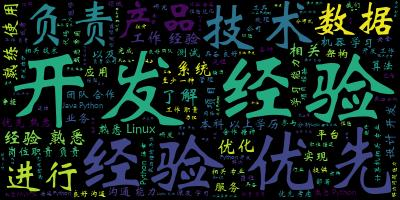
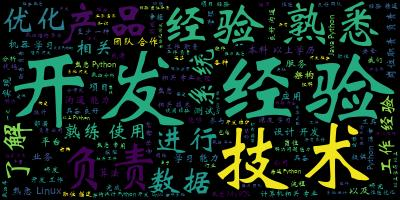
update

diff --git a/Scrapy/lagou/lagou/analysis/analysis.py b/Scrapy/lagou/lagou/analysis/analysis.py
@@ -120,7 +120,7 @@ class Analysis(object):
         describe_string_list = jieba.cut(describe_string)
         new_string = ' '.join(describe_string_list)
 
-        stop_list = ['任职', '要求']
+        stop_list = ['任职', '要求', '优先']
         wc = WordCloud(
             max_words=2000,
             max_font_size=100,
@@ -133,6 +133,6 @@ class Analysis(object):
 
 if __name__ == '__main__':
     al = Analysis()
-    al.show_all()
+    al.describe()
 
 
